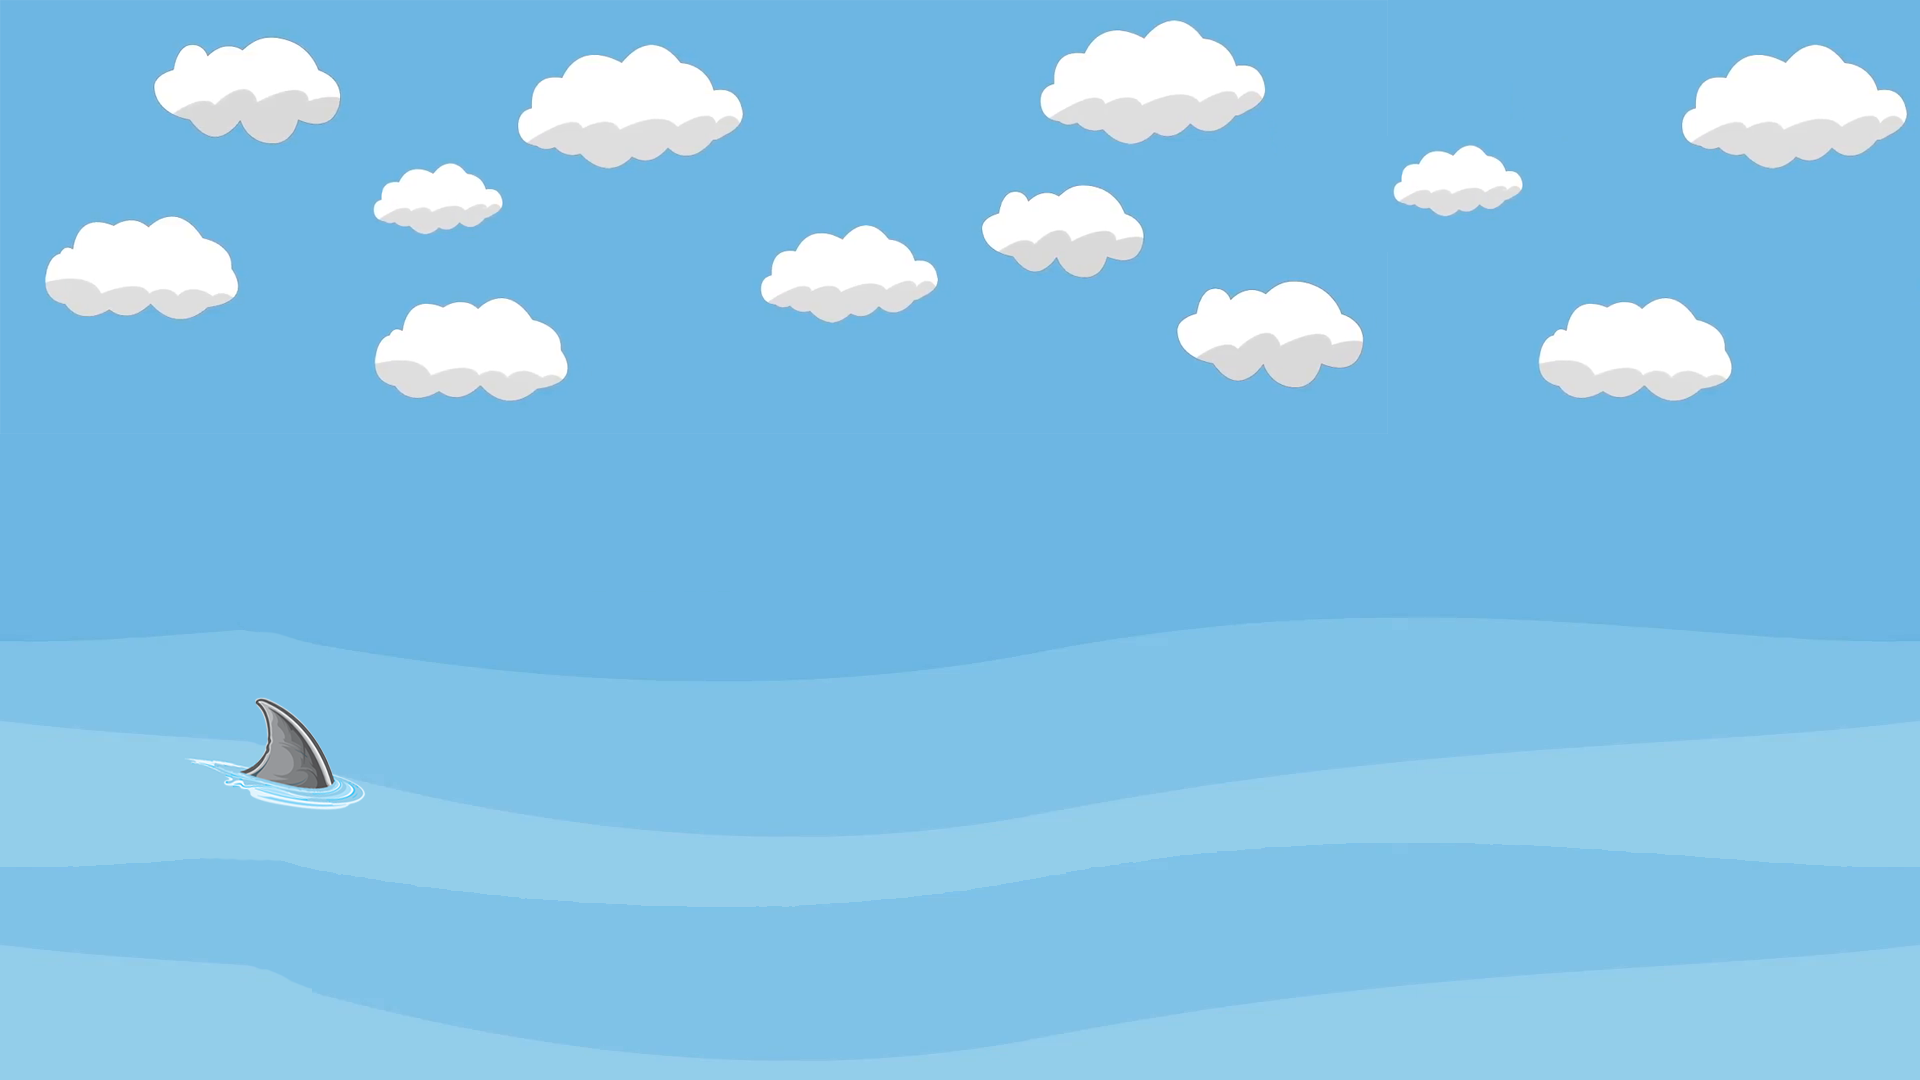
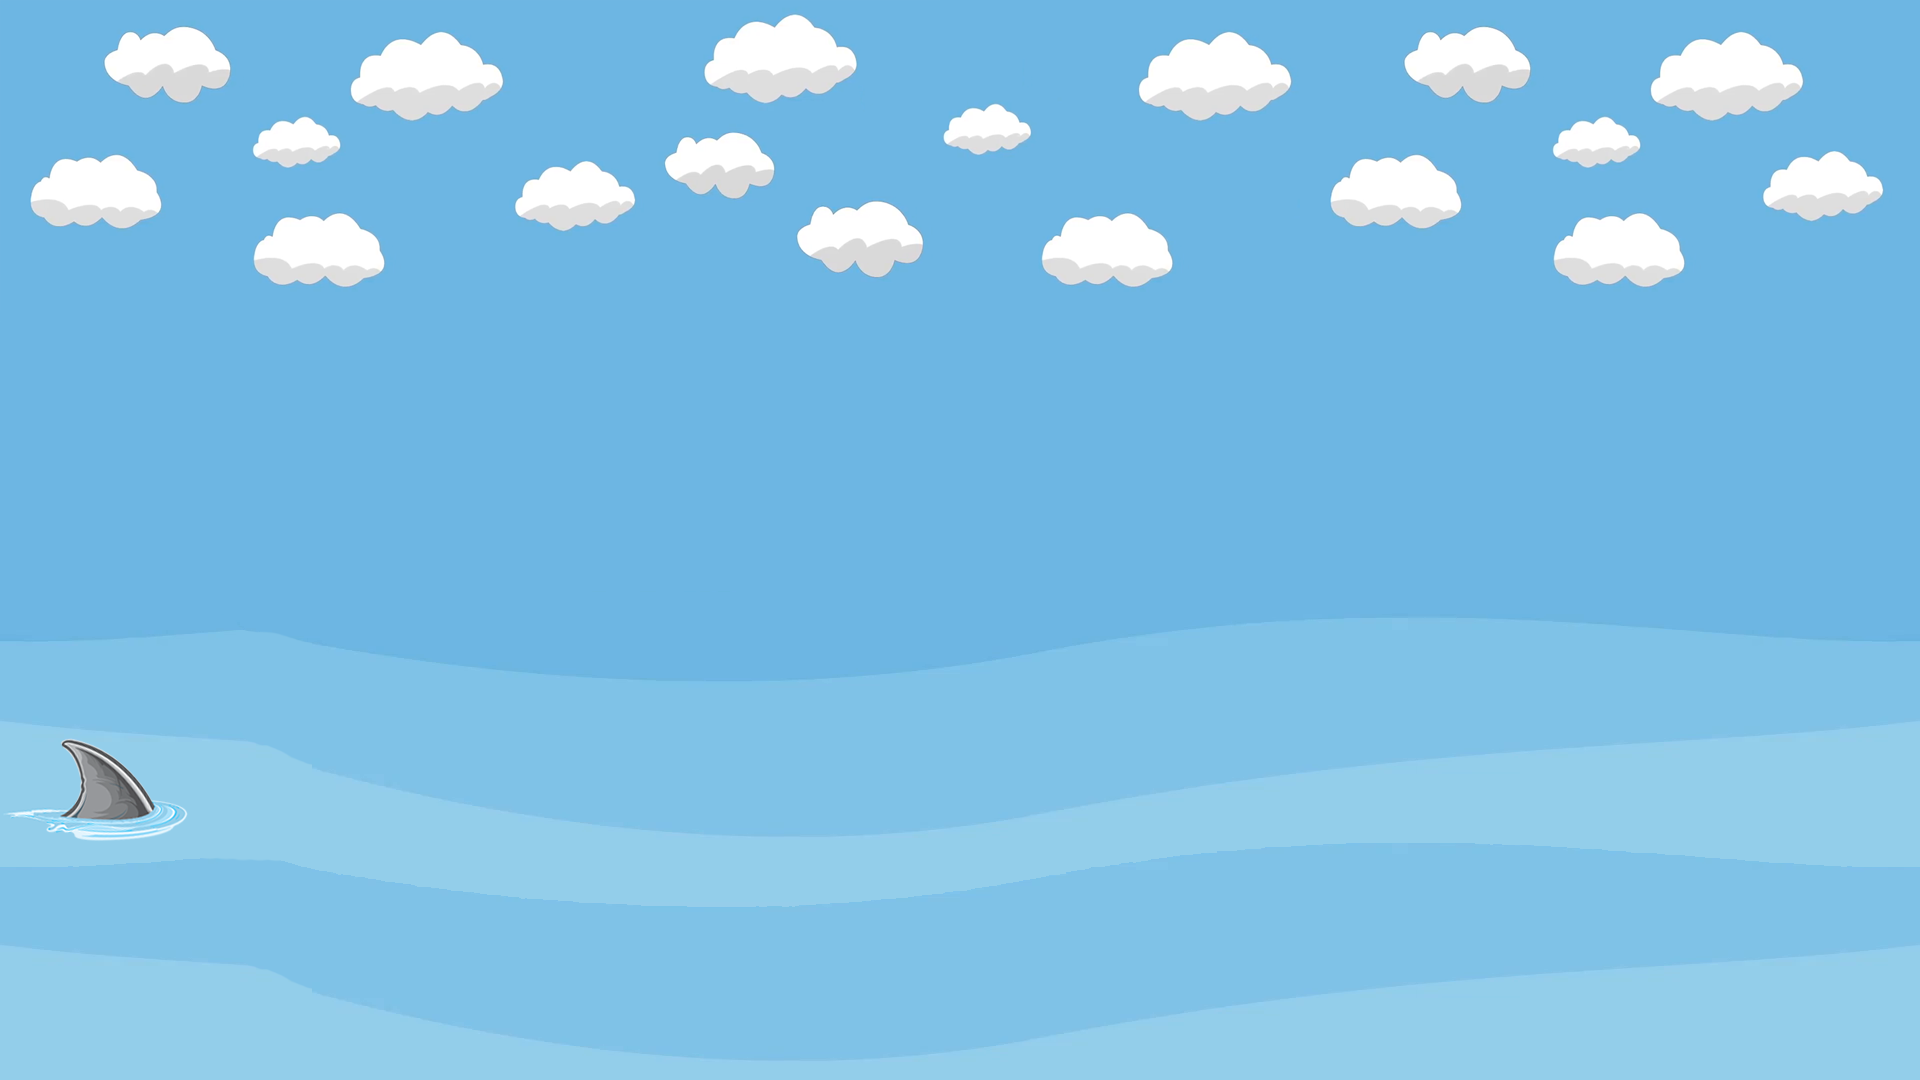
finished ruff cut for ship

diff --git a/my-app/src/components/Ship.js b/my-app/src/components/Ship.js
@@ -37,6 +37,7 @@ repeat 0 0;
   margin-top: 0;
   height: 100vh;
   animation: slide2 520s linear infinite;
+  
   @keyframes slide2 {
     from { background-position: 0 -0; }
     to { background-position: 8000px 0; }
@@ -49,12 +50,12 @@ background-repeat: no-repeat;
     margin-top: 18%;
     position: fixed;
     z-index: 100;
-    margin-left: 50%;
+    margin-left: 80%;
     width: 100vw;
     height: 100vw;
-    animation: slide3 55s linear infinite;
+    animation: slide3 55s linear infinite ;
     @keyframes slide3 {
-    from { margin-left: 50%; }
+    from { margin-left: 80%; }
    to { margin-left: -110%;  }
 }
 
@@ -144,9 +145,8 @@ class Ship extends Component {
                     <img src="https://vignette.wikia.nocookie.net/animaljam/images/9/93/Tumblr_ms4th0h51A1sfk0ybo1_500.gif/revision/latest?cb=20160416200533" alt="birds"/>
                     </Birds>
                         <Sky/>
-                        <Water>fwdffewfr</Water>
-                            {/* <ShipGif>
-                            </ShipGif> */}
+                        <Water></Water>
+                       
                             <CruiseBtn>
                             {() => this.operation()}
                     {this.state.startCruise ?
